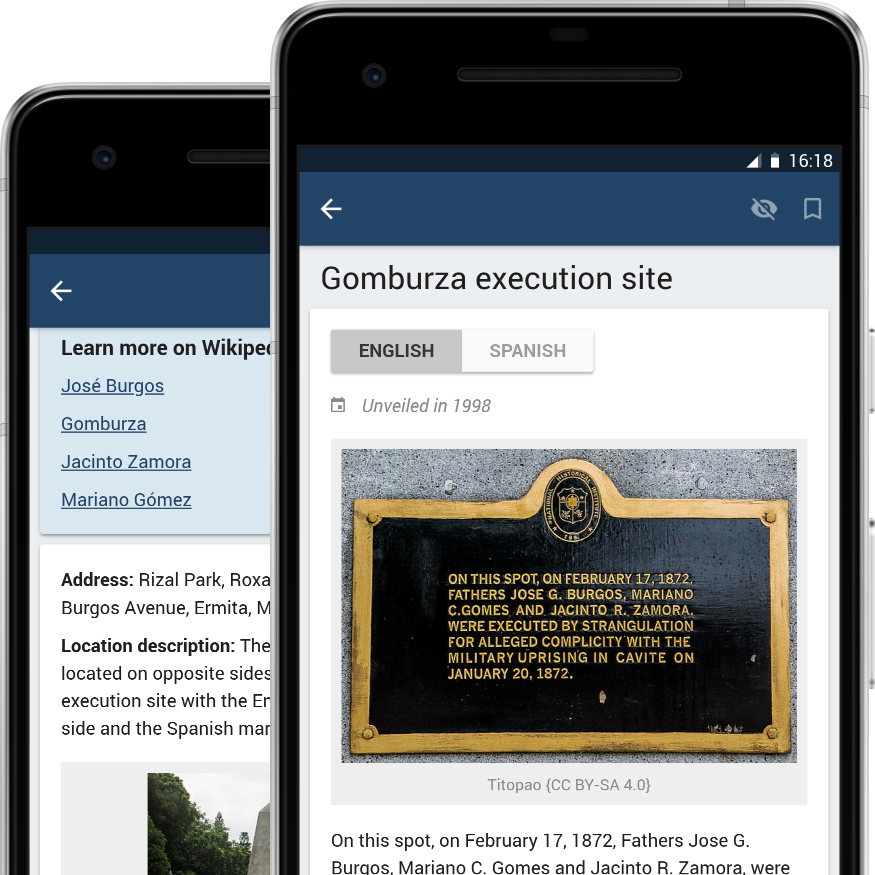
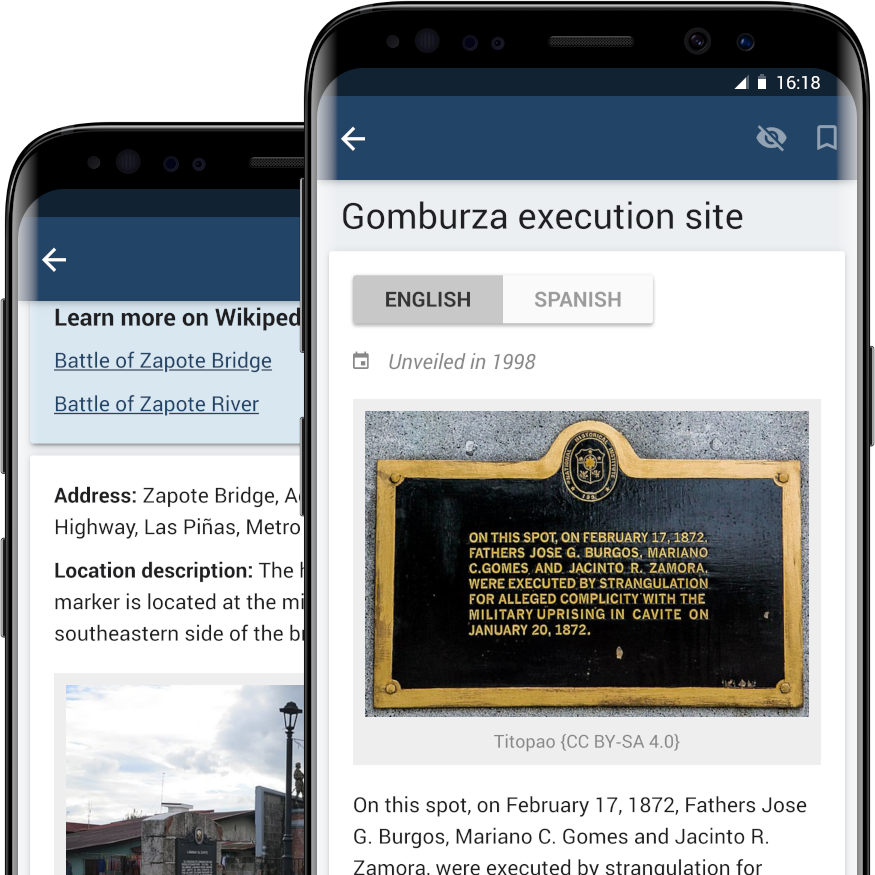
Use Galaxy S9 phone for screenshots
- Replace Pixel 2 with Galaxy S9 for the screenshots
- Update tagline and other texts
- Update copyright year to include 2019

diff --git a/www/index.html b/www/index.html
@@ -18,7 +18,7 @@
   </header>
   <div class="body">
     <div class="text">
-      <h1>Exploring History</h1>
+      <h1>History at your fingertips</h1>
       <p class="blurb">Learn more about the rich history of the Philippines and its people as written in the country’s historical markers.</p>
       <p id="google-play-badge"><a href='https://play.google.com/store/apps/details?id=com.sector4f.pananda&amp;pcampaignid=MKT-Other-global-all-co-prtnr-py-PartBadge-Mar2515-1'><img alt='Get it on Google Play' src='img/google-play-badge.png'/></a></p>
       <p id="intro-attribution">Vigan photo © <a href="https://commons.wikimedia.org/wiki/Special:Contributions/Ericmontalban">User:Ericmontalban</a>, <a href="https://creativecommons.org/licenses/by-sa/3.0/deed.en">CC BY-SA 3.0</a></p>
@@ -27,7 +27,7 @@
   </div>
 </section>
 <section id="description">
-  <p><strong>Panandâ (<span class="baybayin">ᜉᜈᜈ᜔ᜇ</span>)</strong> is a mobile app that lets you explore the historical markers and commemorative plaques installed by the National Historical Commission of the Philippines (NHCP) and its predecessor agencies. Panandâ uses data from Wikidata and photos from Wikimedia Commons, which are sister projects of Wikipedia.</p>
+  <p><strong>Panandâ</strong> (<strong><span class="baybayin">ᜉᜈᜈ᜔ᜇ</span></strong>) is a mobile app that lets you explore the historical markers and commemorative plaques installed by the National Historical Commission of the Philippines (NHCP) and its predecessor agencies. Panandâ uses data from Wikidata and photos from Wikimedia Commons, which are sister projects of Wikipedia.</p>
 </section>
 <section id="map-list-view">
   <div class="text">
@@ -40,7 +40,7 @@
 <section id="details-view">
   <div class="text">
     <h2>Learn</h2>
-    <p>Each historical marker has a details page showing a photo of the marker and its inscription, links to related Wikipedia articles, plus the marker’s location to help you find and visit the historical marker.</p>
+    <p>Each historical marker has a details page showing a photo of the marker and its inscription, links to related Wikipedia articles, plus the marker’s location and a photo of its vicinity to help you find the historical marker.</p>
   </div>
   <div class="illustration"><img src="img/details-view.png"></div>
   </div>
@@ -62,7 +62,7 @@
   </ul>
 </section>
 <footer>
-  <p id="copyright">Copyright © 2018, Sector4F</p>
+  <p id="copyright">Copyright © 2018–2019, Sector4F</p>
   <p id="privacy"><a href="privacy-policy.html">Privacy Policy</a></p>
   <p id="facebook"><a href="https://www.facebook.com/pananda.mobile/">Facebook</a></p>
 </footer>

diff --git a/www/privacy-policy.html b/www/privacy-policy.html
@@ -23,14 +23,14 @@
   <h2>Visited and bookmarked status</h1>
   <p>The record of which historical markers are marked as visited or bookmarked is only stored within the app and is never provided to any other device or server. This also means that if the app is uninstalled, this data will be lost. Currently, this data also cannot be transferred or copied if you install the app on another device.</p>
   <h2>GPS location data</h1>
-  <p>The GPS location data, when you enable the GPS function, is used for the distance filter so that the you can view markers that are located near you. This location data is only used within the app and is never stored nor provided to any other device or server and is discarded when the app is closed.</p>
+  <p>The GPS location data, when you enable the GPS function, is used for the distance filter so that you can view markers that are located near you. This location data is only used within the app and is never stored nor provided to any other device or server and is discarded when the app is closed.</p>
   <h2>Internet access</h1>
   <p>The app accesses external resources from the Internet. Specifically, these are the map tiles from CARTO that are used as the base map for the map view, and photos of historical markers and their locations from Wikimedia Commons. Like almost all web service providers, CARTO and the Wikimedia Foundation may record these accesses in the form of IP addresses, timestamps, and device data. Please refer to the <a target="_system" href="https://carto.com/privacy/">CARTO privacy notice</a> and the <a target="_system" href="https://wikimediafoundation.org/wiki/Privacy_policy">Wikimedia Foundation privacy policy</a> for detailed information.</p>
   <h2>SD card access</h1>
   <p>The app accesses the SD card in order to cache photos of historical markers and their locations. This helps to minimize network data usage. The app currently caps the cache to a maximum of 10 megabytes.</p>
 </section>
 <footer>
-  <p id="copyright">Copyright © 2018, Sector4F</p>
+  <p id="copyright">Copyright © 2018–2019, Sector4F</p>
 </footer>
 </body>
 
